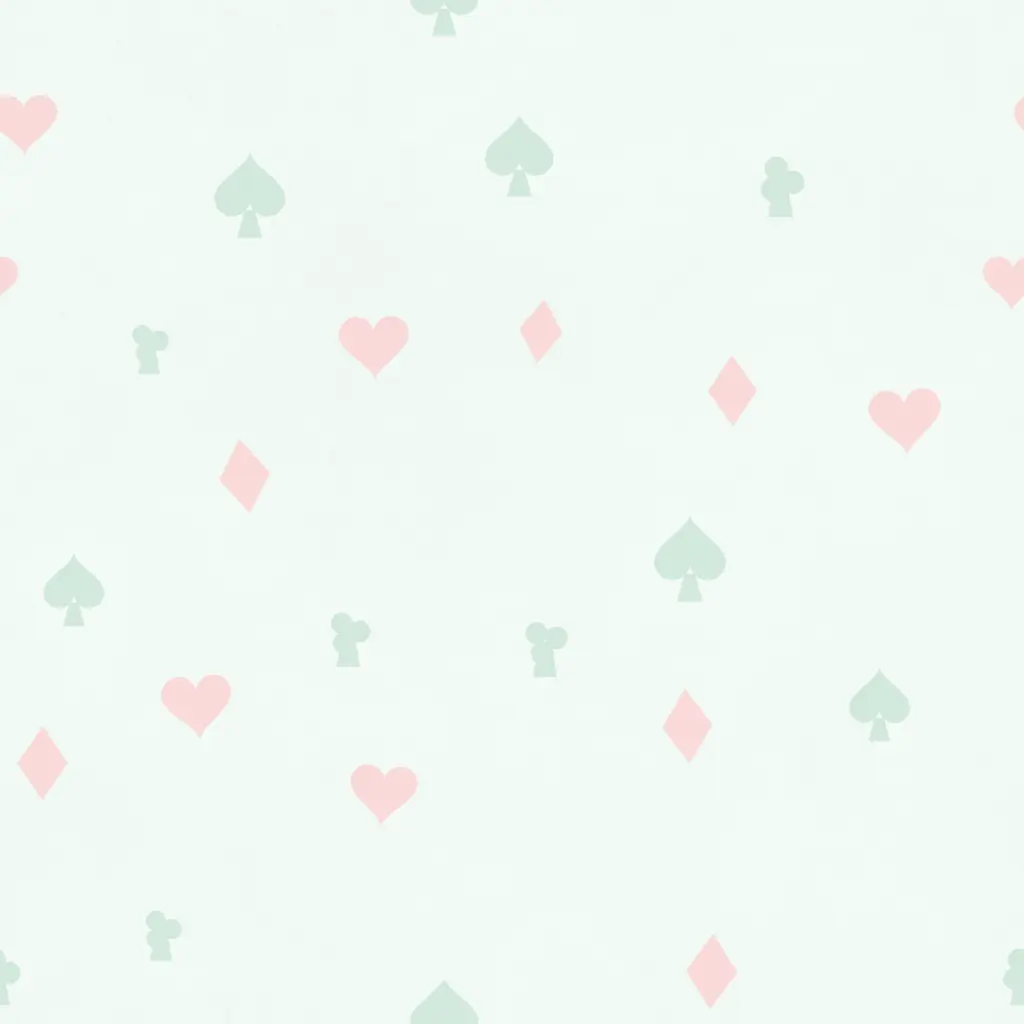
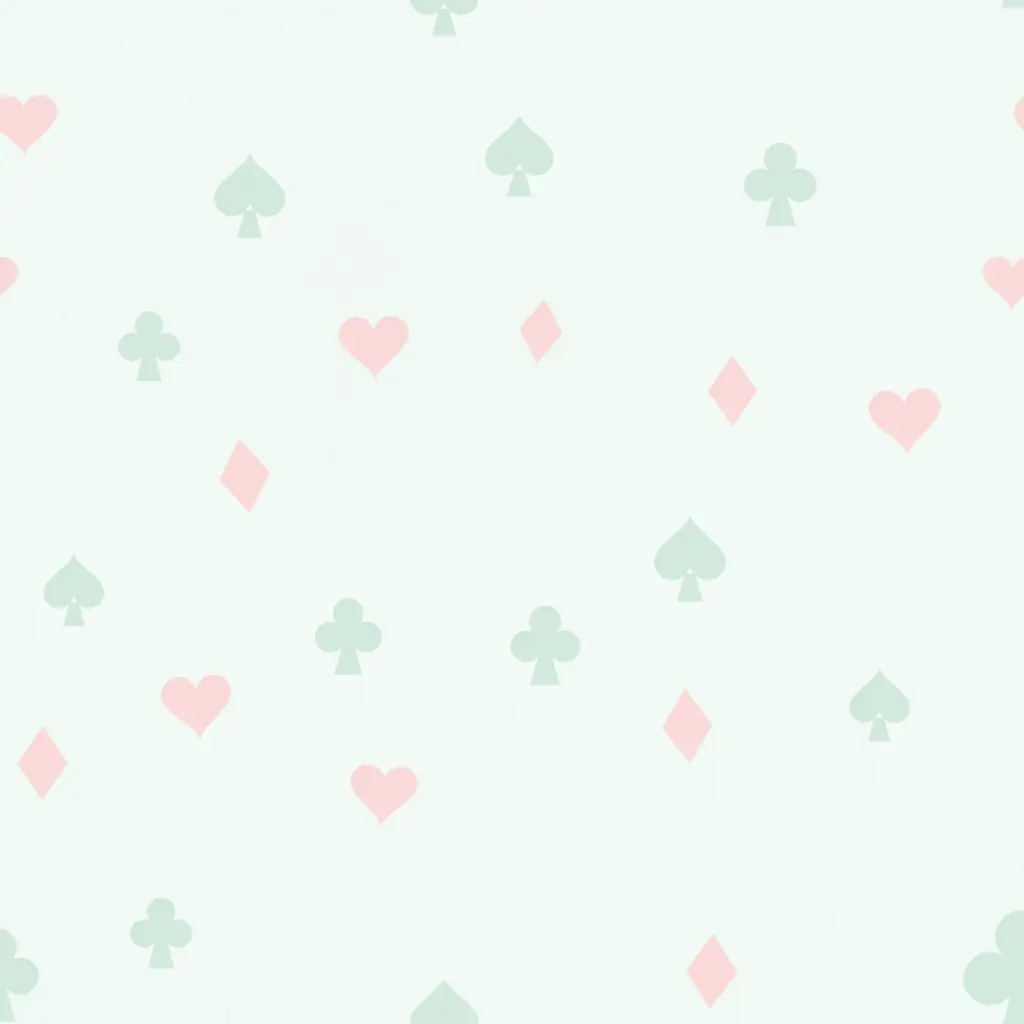
大百科スキン：トランプのクローバーの形を修正
Claude-Session: https://claude.ai/code/session_01EiWRAXdgG2E49zWGCUrEwZ

diff --git a/atlas/skins.js b/atlas/skins.js
@@ -9,7 +9,7 @@
 (function () {
   'use strict';
   const BASE = (() => { try { return new URL('../images/atlas/skin/', document.currentScript.src).href; } catch (e) { return '../images/atlas/skin/'; } })();
-  const V = 2;   // bump when the images are re-rendered
+  const V = 3;   // bump when the images are re-rendered
   const DEV_ALL = true;
   const RAR = ['N', 'R', 'SR', 'SSR', 'UR'];
   // id: [rarity, kind (tile px | 'c' = cover), page colour, header colour, selected-tab colour, dark]

diff --git a/atlas/index.html b/atlas/index.html
@@ -2348,7 +2348,7 @@ else document.write('<script src="https://cdnjs.cloudflare.com/ajax/libs/three.j
 <script src="texgen.js?v=2"></script>
 <script src="npc/roster.js?v=16"></script>
 <script src="art.js?v=19"></script>
-<script src="skins.js?v=3"></script>
+<script src="skins.js?v=4"></script>
 <script src="../shared/atlas-updates.js?v=48"></script>
 <script src="../shared/atlas.js?v=20261119nw1"></script>
 <script src="../shared/atlas-firebase-config.js?v=ac1"></script>

diff --git a/atlas/tools/skins.py b/atlas/tools/skins.py
@@ -487,9 +487,12 @@ def suits(n=1024, seed=61):
             for x, y, s, a, k in S:
                 if k not in kinds: continue
                 for X, Y in wrapped(n, x, y, s * 1.5):
-                    if k == 3:
-                        clover_draw(d, X * ss, Y * ss, s * ss * .62, a - math.pi / 6)
-                        d.polygon([((X - s * .16) * ss, (Y + s * .1) * ss), ((X + s * .16) * ss, (Y + s * .1) * ss), ((X + s * .3) * ss, (Y + s * .9) * ss), ((X - s * .3) * ss, (Y + s * .9) * ss)], fill=255)
+                    if k == 3:   # an upright club: three round leaves (top, left, right), a filled centre and a flared stem
+                        s = s * 1.2; R = s * .33
+                        for cx, cy in ((0, -.42), (-.4, .1), (.4, .1)):
+                            d.ellipse([(X + cx * s - R) * ss, (Y + cy * s - R) * ss, (X + cx * s + R) * ss, (Y + cy * s + R) * ss], fill=255)
+                        d.ellipse([(X - s * .2) * ss, (Y - s * .15) * ss, (X + s * .2) * ss, (Y + s * .25) * ss], fill=255)
+                        d.polygon([((X - s * .09) * ss, (Y + s * .1) * ss), ((X + s * .09) * ss, (Y + s * .1) * ss), ((X + s * .3) * ss, (Y + s * .92) * ss), ((X - s * .3) * ss, (Y + s * .92) * ss)], fill=255)
                     elif k == 2:
                         d.polygon([(px * ss, py * ss) for px, py in poly_t(spade_pts(), X, Y - s * .1, s * .9, 0)], fill=255)
                         d.polygon([((X - s * .12) * ss, (Y + s * .3) * ss), ((X + s * .12) * ss, (Y + s * .3) * ss), ((X + s * .3) * ss, (Y + s * .95) * ss), ((X - s * .3) * ss, (Y + s * .95) * ss)], fill=255)
